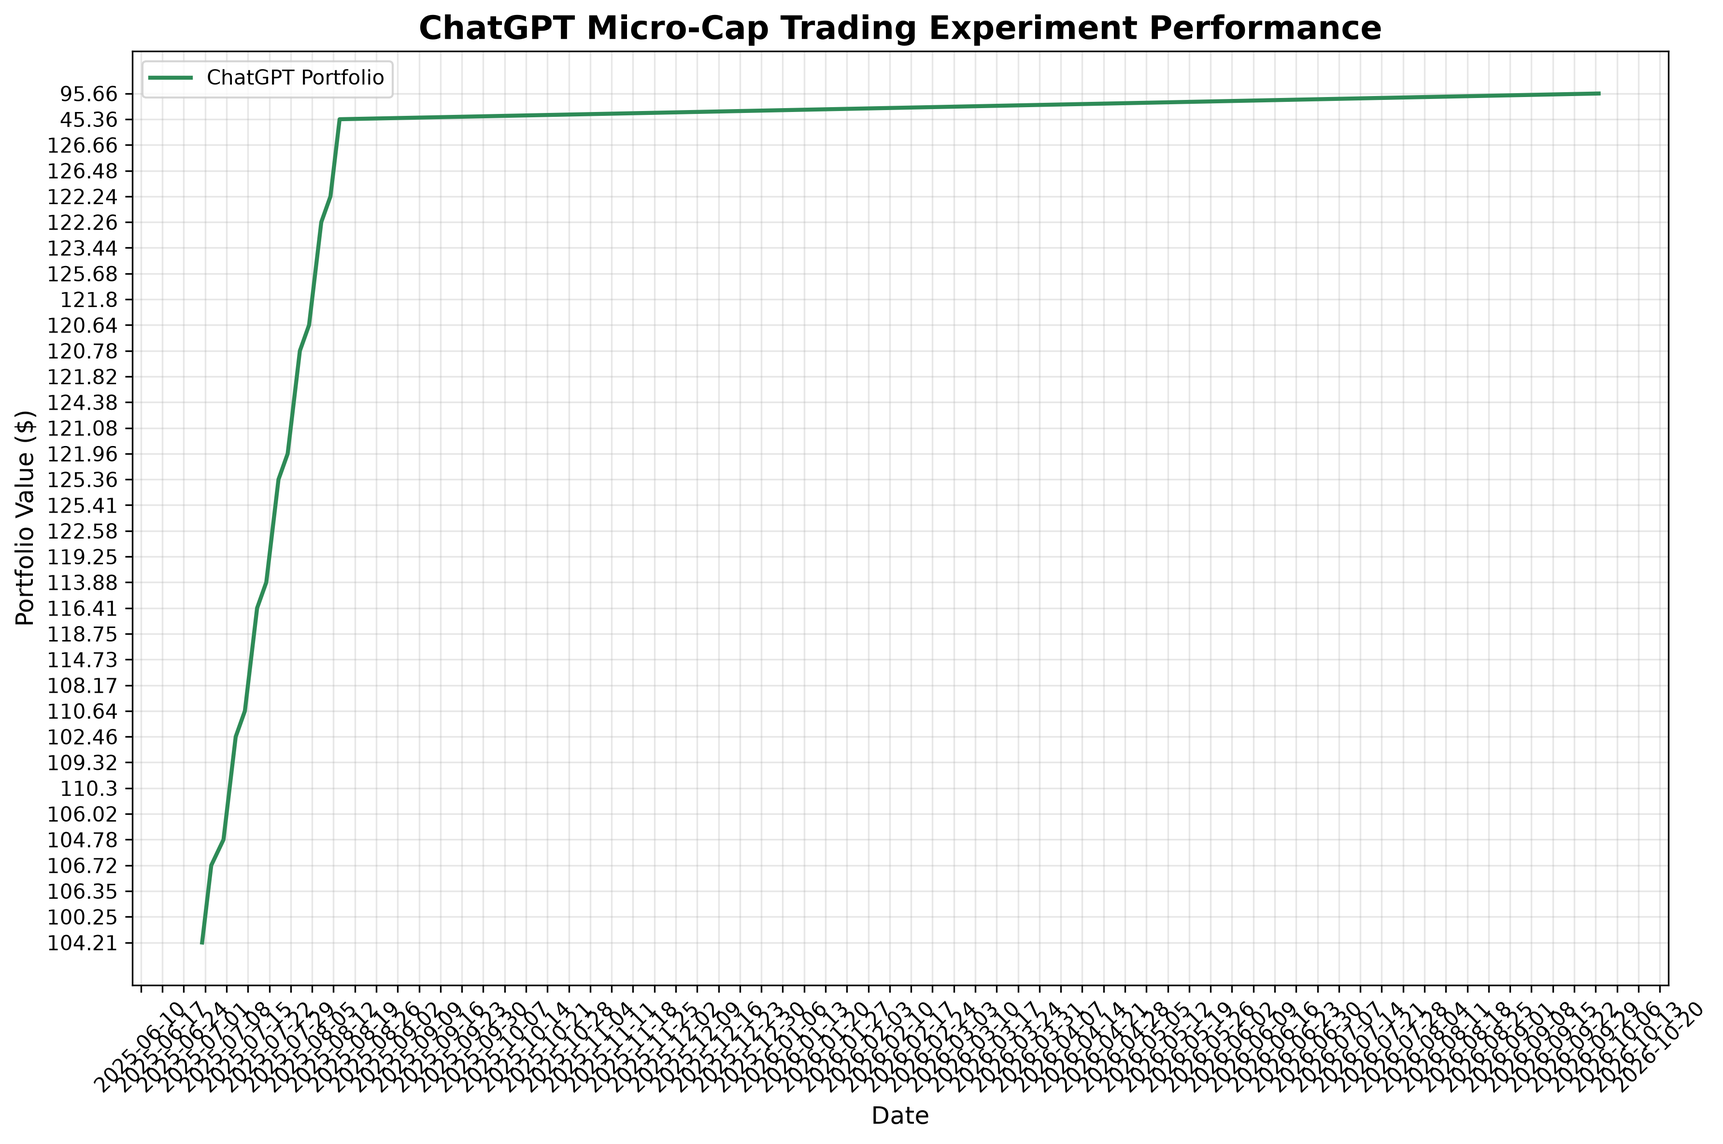
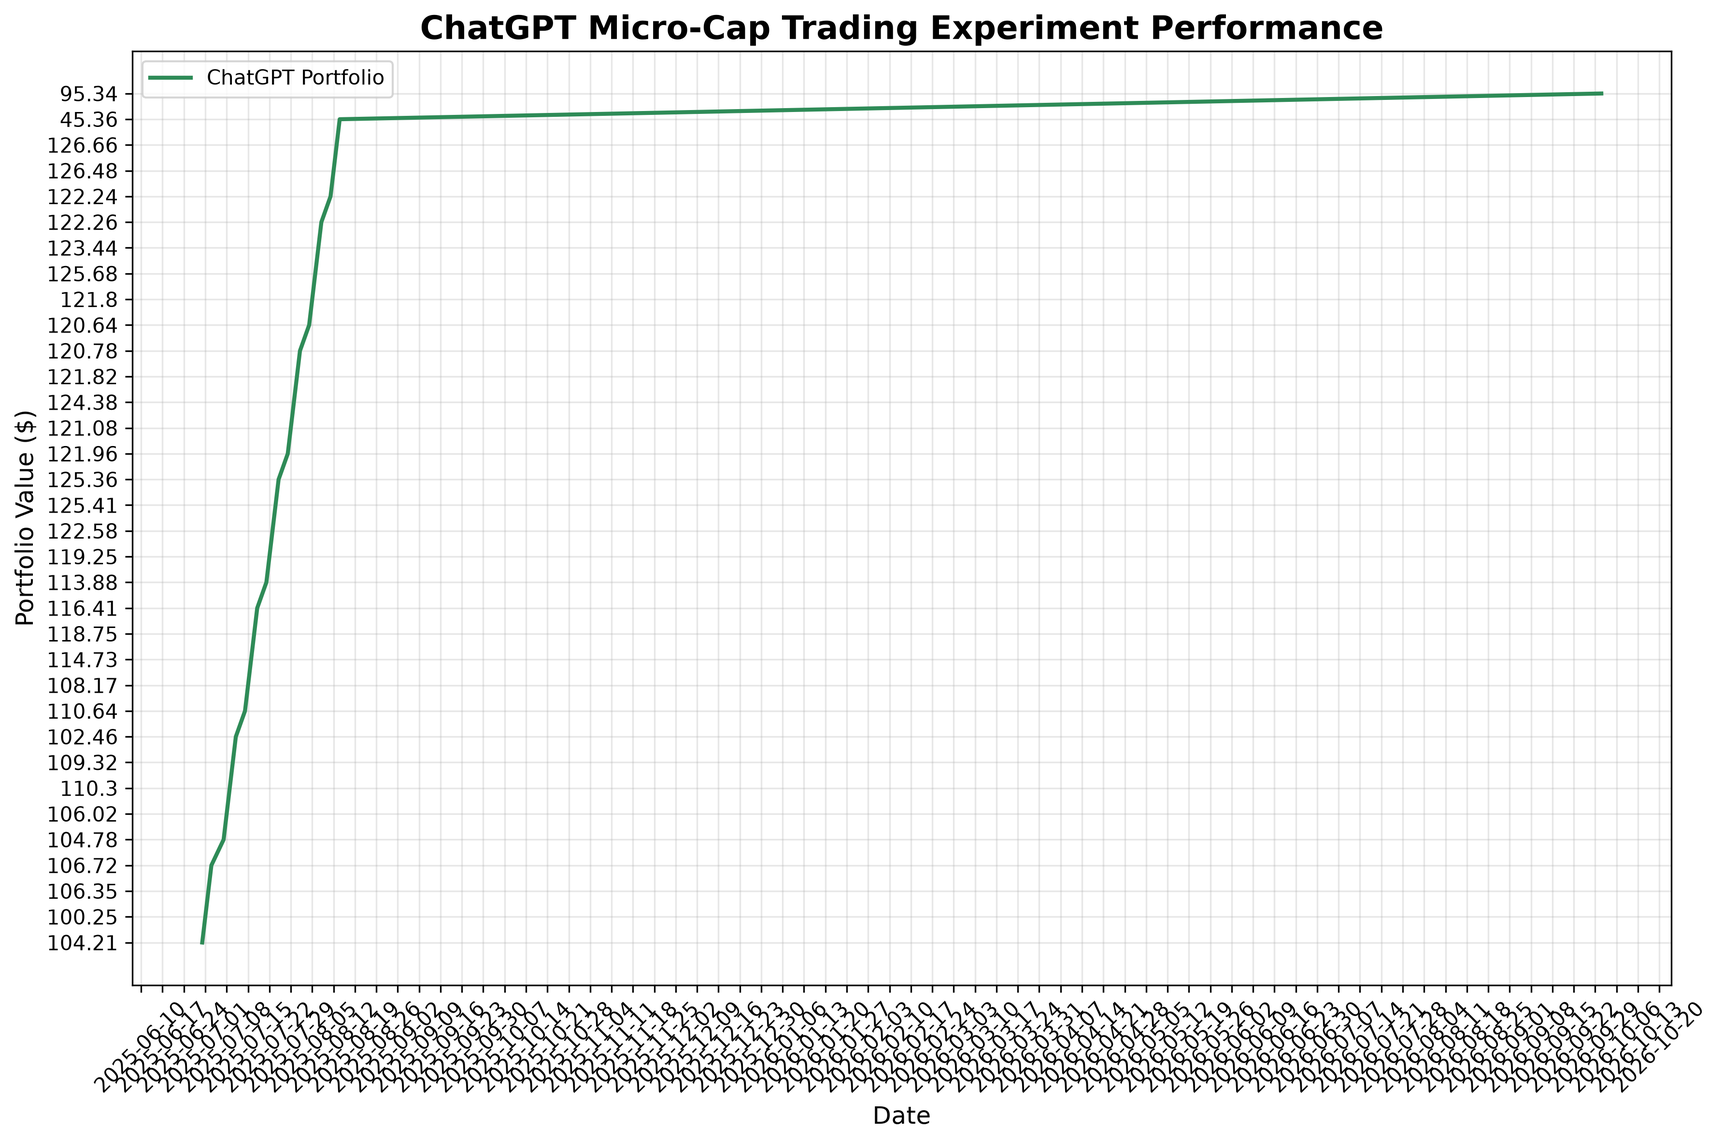
deploy: e15cad030d70fb3fbb51f9df6e22fa70c2f175c0

diff --git a/index.html b/index.html
@@ -105,7 +105,7 @@
                 <div class="stat-label">Total Trades</div>
             </div>
             <div class="stat-card">
-                <div class="stat-value" id="last-updated">2026-09-30</div>
+                <div class="stat-value" id="last-updated">2026-10-01</div>
                 <div class="stat-label">Last Updated</div>
             </div>
         </div>
@@ -160,8 +160,8 @@
     
     <script>
         // Portfolio data
-        const portfolioData = JSON.parse("[{&quot;Date&quot;: &quot;2025-08-11&quot;, &quot;Ticker&quot;: &quot;ABEO&quot;, &quot;Shares&quot;: 4.0, &quot;Buy Price&quot;: 5.77, &quot;Cost Basis&quot;: 23.08, &quot;Stop Loss&quot;: 4.9, &quot;Current Price&quot;: 6.28, &quot;Total Value&quot;: 25.12, &quot;PnL&quot;: 2.04, &quot;Action&quot;: &quot;HOLD&quot;, &quot;Cash Balance&quot;: NaN, &quot;Total Equity&quot;: NaN}, {&quot;Date&quot;: &quot;2025-08-11&quot;, &quot;Ticker&quot;: &quot;ACTU&quot;, &quot;Shares&quot;: 6.0, &quot;Buy Price&quot;: 5.75, &quot;Cost Basis&quot;: 34.5, &quot;Stop Loss&quot;: 4.89, &quot;Current Price&quot;: 8.01, &quot;Total Value&quot;: 48.06, &quot;PnL&quot;: 13.56, &quot;Action&quot;: &quot;HOLD&quot;, &quot;Cash Balance&quot;: NaN, &quot;Total Equity&quot;: NaN}, {&quot;Date&quot;: &quot;2025-08-11&quot;, &quot;Ticker&quot;: &quot;ESPR&quot;, &quot;Shares&quot;: 2.0, &quot;Buy Price&quot;: 1.91, &quot;Cost Basis&quot;: 3.82, &quot;Stop Loss&quot;: 1.6, &quot;Current Price&quot;: 1.85, &quot;Total Value&quot;: 3.7, &quot;PnL&quot;: -0.12, &quot;Action&quot;: &quot;HOLD&quot;, &quot;Cash Balance&quot;: NaN, &quot;Total Equity&quot;: NaN}, {&quot;Date&quot;: &quot;2025-08-11&quot;, &quot;Ticker&quot;: &quot;TOTAL&quot;, &quot;Shares&quot;: NaN, &quot;Buy Price&quot;: NaN, &quot;Cost Basis&quot;: NaN, &quot;Stop Loss&quot;: NaN, &quot;Current Price&quot;: NaN, &quot;Total Value&quot;: 76.88, &quot;PnL&quot;: 15.48, &quot;Action&quot;: NaN, &quot;Cash Balance&quot;: 45.36, &quot;Total Equity&quot;: &quot;122.24&quot;}, {&quot;Date&quot;: &quot;2025-08-12&quot;, &quot;Ticker&quot;: &quot;ABEO&quot;, &quot;Shares&quot;: 4.0, &quot;Buy Price&quot;: 5.77, &quot;Cost Basis&quot;: 23.08, &quot;Stop Loss&quot;: 4.9, &quot;Current Price&quot;: 6.38, &quot;Total Value&quot;: 25.52, &quot;PnL&quot;: 2.44, &quot;Action&quot;: &quot;HOLD&quot;, &quot;Cash Balance&quot;: NaN, &quot;Total Equity&quot;: NaN}, {&quot;Date&quot;: &quot;2025-08-12&quot;, &quot;Ticker&quot;: &quot;ACTU&quot;, &quot;Shares&quot;: 6.0, &quot;Buy Price&quot;: 5.75, &quot;Cost Basis&quot;: 34.5, &quot;Stop Loss&quot;: 4.89, &quot;Current Price&quot;: 8.67, &quot;Total Value&quot;: 52.02, &quot;PnL&quot;: 17.52, &quot;Action&quot;: &quot;HOLD&quot;, &quot;Cash Balance&quot;: NaN, &quot;Total Equity&quot;: NaN}, {&quot;Date&quot;: &quot;2025-08-12&quot;, &quot;Ticker&quot;: &quot;ESPR&quot;, &quot;Shares&quot;: 2.0, &quot;Buy Price&quot;: 1.91, &quot;Cost Basis&quot;: 3.82, &quot;Stop Loss&quot;: 1.6, &quot;Current Price&quot;: 1.79, &quot;Total Value&quot;: 3.58, &quot;PnL&quot;: -0.24, &quot;Action&quot;: &quot;HOLD&quot;, &quot;Cash Balance&quot;: NaN, &quot;Total Equity&quot;: NaN}, {&quot;Date&quot;: &quot;2025-08-12&quot;, &quot;Ticker&quot;: &quot;TOTAL&quot;, &quot;Shares&quot;: NaN, &quot;Buy Price&quot;: NaN, &quot;Cost Basis&quot;: NaN, &quot;Stop Loss&quot;: NaN, &quot;Current Price&quot;: NaN, &quot;Total Value&quot;: 81.12, &quot;PnL&quot;: 19.72, &quot;Action&quot;: NaN, &quot;Cash Balance&quot;: 45.36, &quot;Total Equity&quot;: &quot;126.48&quot;}, {&quot;Date&quot;: &quot;2025-08-13&quot;, &quot;Ticker&quot;: &quot;ABEO&quot;, &quot;Shares&quot;: 4.0, &quot;Buy Price&quot;: 5.77, &quot;Cost Basis&quot;: 23.08, &quot;Stop Loss&quot;: 4.9, &quot;Current Price&quot;: 6.56, &quot;Total Value&quot;: 26.24, &quot;PnL&quot;: 3.16, &quot;Action&quot;: &quot;HOLD&quot;, &quot;Cash Balance&quot;: NaN, &quot;Total Equity&quot;: NaN}, {&quot;Date&quot;: &quot;2025-08-13&quot;, &quot;Ticker&quot;: &quot;ACTU&quot;, &quot;Shares&quot;: 6.0, &quot;Buy Price&quot;: 5.75, &quot;Cost Basis&quot;: 34.5, &quot;Stop Loss&quot;: 4.89, &quot;Current Price&quot;: 8.53, &quot;Total Value&quot;: 51.18, &quot;PnL&quot;: 16.68, &quot;Action&quot;: &quot;HOLD&quot;, &quot;Cash Balance&quot;: NaN, &quot;Total Equity&quot;: NaN}, {&quot;Date&quot;: &quot;2025-08-13&quot;, &quot;Ticker&quot;: &quot;ESPR&quot;, &quot;Shares&quot;: 2.0, &quot;Buy Price&quot;: 1.91, &quot;Cost Basis&quot;: 3.82, &quot;Stop Loss&quot;: 1.6, &quot;Current Price&quot;: 1.94, &quot;Total Value&quot;: 3.88, &quot;PnL&quot;: 0.06, &quot;Action&quot;: &quot;HOLD&quot;, &quot;Cash Balance&quot;: NaN, &quot;Total Equity&quot;: NaN}, {&quot;Date&quot;: &quot;2025-08-13&quot;, &quot;Ticker&quot;: &quot;TOTAL&quot;, &quot;Shares&quot;: NaN, &quot;Buy Price&quot;: NaN, &quot;Cost Basis&quot;: NaN, &quot;Stop Loss&quot;: NaN, &quot;Current Price&quot;: NaN, &quot;Total Value&quot;: 81.3, &quot;PnL&quot;: 19.9, &quot;Action&quot;: NaN, &quot;Cash Balance&quot;: 45.36, &quot;Total Equity&quot;: &quot;126.66&quot;}, {&quot;Date&quot;: &quot;2025-08-14&quot;, &quot;Ticker&quot;: &quot;ABEO&quot;, &quot;Shares&quot;: 4.0, &quot;Buy Price&quot;: 5.77, &quot;Cost Basis&quot;: 23.08, &quot;Stop Loss&quot;: 4.9, &quot;Current Price&quot;: NaN, &quot;Total Value&quot;: NaN, &quot;PnL&quot;: NaN, &quot;Action&quot;: &quot;NO DATA&quot;, &quot;Cash Balance&quot;: NaN, &quot;Total Equity&quot;: NaN}, {&quot;Date&quot;: &quot;2025-08-14&quot;, &quot;Ticker&quot;: &quot;ACTU&quot;, &quot;Shares&quot;: 6.0, &quot;Buy Price&quot;: 5.75, &quot;Cost Basis&quot;: 34.5, &quot;Stop Loss&quot;: 4.89, &quot;Current Price&quot;: NaN, &quot;Total Value&quot;: NaN, &quot;PnL&quot;: NaN, &quot;Action&quot;: &quot;NO DATA&quot;, &quot;Cash Balance&quot;: NaN, &quot;Total Equity&quot;: NaN}, {&quot;Date&quot;: &quot;2025-08-14&quot;, &quot;Ticker&quot;: &quot;ESPR&quot;, &quot;Shares&quot;: 2.0, &quot;Buy Price&quot;: 1.91, &quot;Cost Basis&quot;: 3.82, &quot;Stop Loss&quot;: 1.6, &quot;Current Price&quot;: NaN, &quot;Total Value&quot;: NaN, &quot;PnL&quot;: NaN, &quot;Action&quot;: &quot;NO DATA&quot;, &quot;Cash Balance&quot;: NaN, &quot;Total Equity&quot;: NaN}, {&quot;Date&quot;: &quot;2025-08-14&quot;, &quot;Ticker&quot;: &quot;TOTAL&quot;, &quot;Shares&quot;: NaN, &quot;Buy Price&quot;: NaN, &quot;Cost Basis&quot;: NaN, &quot;Stop Loss&quot;: NaN, &quot;Current Price&quot;: NaN, &quot;Total Value&quot;: 0.0, &quot;PnL&quot;: 0.0, &quot;Action&quot;: NaN, &quot;Cash Balance&quot;: 45.36, &quot;Total Equity&quot;: &quot;45.36&quot;}, {&quot;Date&quot;: &quot;2026-09-30&quot;, &quot;Ticker&quot;: &quot;ABEO&quot;, &quot;Shares&quot;: 4.0, &quot;Buy Price&quot;: 5.77, &quot;Cost Basis&quot;: 23.08, &quot;Stop Loss&quot;: 4.9, &quot;Current Price&quot;: 5.24, &quot;Total Value&quot;: 20.96, &quot;PnL&quot;: -2.12, &quot;Action&quot;: &quot;HOLD&quot;, &quot;Cash Balance&quot;: NaN, &quot;Total Equity&quot;: NaN}, {&quot;Date&quot;: &quot;2026-09-30&quot;, &quot;Ticker&quot;: &quot;ACTU&quot;, &quot;Shares&quot;: 6.0, &quot;Buy Price&quot;: 5.75, &quot;Cost Basis&quot;: 34.5, &quot;Stop Loss&quot;: 4.89, &quot;Current Price&quot;: 4.89, &quot;Total Value&quot;: 29.34, &quot;PnL&quot;: -5.16, &quot;Action&quot;: &quot;SELL - Stop Loss Triggered&quot;, &quot;Cash Balance&quot;: NaN, &quot;Total Equity&quot;: NaN}, {&quot;Date&quot;: &quot;2026-09-30&quot;, &quot;Ticker&quot;: &quot;ESPR&quot;, &quot;Shares&quot;: 2.0, &quot;Buy Price&quot;: 1.91, &quot;Cost Basis&quot;: 3.82, &quot;Stop Loss&quot;: 1.6, &quot;Current Price&quot;: NaN, &quot;Total Value&quot;: NaN, &quot;PnL&quot;: NaN, &quot;Action&quot;: &quot;NO DATA&quot;, &quot;Cash Balance&quot;: NaN, &quot;Total Equity&quot;: NaN}, {&quot;Date&quot;: &quot;2026-09-30&quot;, &quot;Ticker&quot;: &quot;TOTAL&quot;, &quot;Shares&quot;: NaN, &quot;Buy Price&quot;: NaN, &quot;Cost Basis&quot;: NaN, &quot;Stop Loss&quot;: NaN, &quot;Current Price&quot;: NaN, &quot;Total Value&quot;: 20.96, &quot;PnL&quot;: -2.12, &quot;Action&quot;: NaN, &quot;Cash Balance&quot;: 74.7, &quot;Total Equity&quot;: &quot;95.66&quot;}]");
-        const tradeData = JSON.parse("[{&quot;Date&quot;: &quot;2025-07-08&quot;, &quot;Ticker&quot;: &quot;IINN&quot;, &quot;Shares Bought&quot;: 20.0, &quot;Buy Price&quot;: 1.5, &quot;Cost Basis&quot;: 30.0, &quot;PnL&quot;: 0.0, &quot;Reason&quot;: &quot;MANUAL BUY - New position&quot;, &quot;Shares Sold&quot;: NaN, &quot;Sell Price&quot;: NaN}, {&quot;Date&quot;: &quot;2025-07-21&quot;, &quot;Ticker&quot;: &quot;CADL&quot;, &quot;Shares Bought&quot;: NaN, &quot;Buy Price&quot;: NaN, &quot;Cost Basis&quot;: 25.2, &quot;PnL&quot;: 8.5, &quot;Reason&quot;: &quot;MANUAL SELL - GAIN CAPITAL FOR ACTU&quot;, &quot;Shares Sold&quot;: 5.0, &quot;Sell Price&quot;: 6.59}, {&quot;Date&quot;: &quot;2025-07-21&quot;, &quot;Ticker&quot;: &quot;ACTU&quot;, &quot;Shares Bought&quot;: 6.0, &quot;Buy Price&quot;: 5.75, &quot;Cost Basis&quot;: 34.5, &quot;PnL&quot;: 0.0, &quot;Reason&quot;: &quot;MANUAL BUY - New position&quot;, &quot;Shares Sold&quot;: NaN, &quot;Sell Price&quot;: NaN}, {&quot;Date&quot;: &quot;2025-07-28&quot;, &quot;Ticker&quot;: &quot;IINN&quot;, &quot;Shares Bought&quot;: NaN, &quot;Buy Price&quot;: NaN, &quot;Cost Basis&quot;: 9.0, &quot;PnL&quot;: -0.5400000000000009, &quot;Reason&quot;: &quot;MANUAL SELL - POSITION REDUCTION&quot;, &quot;Shares Sold&quot;: 6.0, &quot;Sell Price&quot;: 1.41}, {&quot;Date&quot;: &quot;2025-07-29&quot;, &quot;Ticker&quot;: &quot;AZTR&quot;, &quot;Shares Bought&quot;: NaN, &quot;Buy Price&quot;: NaN, &quot;Cost Basis&quot;: 13.75, &quot;PnL&quot;: -2.75, &quot;Reason&quot;: &quot;MANUAL SELL - DILUTION RISK&quot;, &quot;Shares Sold&quot;: 55.0, &quot;Sell Price&quot;: 0.2}, {&quot;Date&quot;: &quot;2025-08-01&quot;, &quot;Ticker&quot;: &quot;IINN&quot;, &quot;Shares Bought&quot;: 2.0, &quot;Buy Price&quot;: 1.74, &quot;Cost Basis&quot;: 3.48, &quot;PnL&quot;: 0.0, &quot;Reason&quot;: &quot;MANUAL BUY - New position&quot;, &quot;Shares Sold&quot;: NaN, &quot;Sell Price&quot;: NaN}, {&quot;Date&quot;: &quot;2025-08-01&quot;, &quot;Ticker&quot;: &quot;ABEO&quot;, &quot;Shares Bought&quot;: NaN, &quot;Buy Price&quot;: NaN, &quot;Cost Basis&quot;: 11.54, &quot;PnL&quot;: 1.200000000000001, &quot;Reason&quot;: &quot;MANUAL SELL - TRIM AFTER SUPPORT LOSS&quot;, &quot;Shares Sold&quot;: 2.0, &quot;Sell Price&quot;: 6.37}, {&quot;Date&quot;: &quot;2025-08-07&quot;, &quot;Ticker&quot;: &quot;ESPR&quot;, &quot;Shares Bought&quot;: 2.0, &quot;Buy Price&quot;: 1.91, &quot;Cost Basis&quot;: 3.82, &quot;PnL&quot;: 0.0, &quot;Reason&quot;: &quot;MANUAL BUY - New position&quot;, &quot;Shares Sold&quot;: NaN, &quot;Sell Price&quot;: NaN}, {&quot;Date&quot;: &quot;2025-08-08&quot;, &quot;Ticker&quot;: &quot;IINN&quot;, &quot;Shares Bought&quot;: NaN, &quot;Buy Price&quot;: NaN, &quot;Cost Basis&quot;: 1.5, &quot;PnL&quot;: -6.4, &quot;Reason&quot;: &quot;AUTOMATED SELL - STOPLOSS TRIGGERED&quot;, &quot;Shares Sold&quot;: 16.0, &quot;Sell Price&quot;: 1.1}, {&quot;Date&quot;: &quot;2026-09-30&quot;, &quot;Ticker&quot;: &quot;ACTU&quot;, &quot;Shares Bought&quot;: NaN, &quot;Buy Price&quot;: NaN, &quot;Cost Basis&quot;: 5.75, &quot;PnL&quot;: -5.16, &quot;Reason&quot;: &quot;AUTOMATED SELL - STOPLOSS TRIGGERED&quot;, &quot;Shares Sold&quot;: 6.0, &quot;Sell Price&quot;: 4.89}]");
+        const portfolioData = JSON.parse("[{&quot;Date&quot;: &quot;2025-08-11&quot;, &quot;Ticker&quot;: &quot;ABEO&quot;, &quot;Shares&quot;: 4.0, &quot;Buy Price&quot;: 5.77, &quot;Cost Basis&quot;: 23.08, &quot;Stop Loss&quot;: 4.9, &quot;Current Price&quot;: 6.28, &quot;Total Value&quot;: 25.12, &quot;PnL&quot;: 2.04, &quot;Action&quot;: &quot;HOLD&quot;, &quot;Cash Balance&quot;: NaN, &quot;Total Equity&quot;: NaN}, {&quot;Date&quot;: &quot;2025-08-11&quot;, &quot;Ticker&quot;: &quot;ACTU&quot;, &quot;Shares&quot;: 6.0, &quot;Buy Price&quot;: 5.75, &quot;Cost Basis&quot;: 34.5, &quot;Stop Loss&quot;: 4.89, &quot;Current Price&quot;: 8.01, &quot;Total Value&quot;: 48.06, &quot;PnL&quot;: 13.56, &quot;Action&quot;: &quot;HOLD&quot;, &quot;Cash Balance&quot;: NaN, &quot;Total Equity&quot;: NaN}, {&quot;Date&quot;: &quot;2025-08-11&quot;, &quot;Ticker&quot;: &quot;ESPR&quot;, &quot;Shares&quot;: 2.0, &quot;Buy Price&quot;: 1.91, &quot;Cost Basis&quot;: 3.82, &quot;Stop Loss&quot;: 1.6, &quot;Current Price&quot;: 1.85, &quot;Total Value&quot;: 3.7, &quot;PnL&quot;: -0.12, &quot;Action&quot;: &quot;HOLD&quot;, &quot;Cash Balance&quot;: NaN, &quot;Total Equity&quot;: NaN}, {&quot;Date&quot;: &quot;2025-08-11&quot;, &quot;Ticker&quot;: &quot;TOTAL&quot;, &quot;Shares&quot;: NaN, &quot;Buy Price&quot;: NaN, &quot;Cost Basis&quot;: NaN, &quot;Stop Loss&quot;: NaN, &quot;Current Price&quot;: NaN, &quot;Total Value&quot;: 76.88, &quot;PnL&quot;: 15.48, &quot;Action&quot;: NaN, &quot;Cash Balance&quot;: 45.36, &quot;Total Equity&quot;: &quot;122.24&quot;}, {&quot;Date&quot;: &quot;2025-08-12&quot;, &quot;Ticker&quot;: &quot;ABEO&quot;, &quot;Shares&quot;: 4.0, &quot;Buy Price&quot;: 5.77, &quot;Cost Basis&quot;: 23.08, &quot;Stop Loss&quot;: 4.9, &quot;Current Price&quot;: 6.38, &quot;Total Value&quot;: 25.52, &quot;PnL&quot;: 2.44, &quot;Action&quot;: &quot;HOLD&quot;, &quot;Cash Balance&quot;: NaN, &quot;Total Equity&quot;: NaN}, {&quot;Date&quot;: &quot;2025-08-12&quot;, &quot;Ticker&quot;: &quot;ACTU&quot;, &quot;Shares&quot;: 6.0, &quot;Buy Price&quot;: 5.75, &quot;Cost Basis&quot;: 34.5, &quot;Stop Loss&quot;: 4.89, &quot;Current Price&quot;: 8.67, &quot;Total Value&quot;: 52.02, &quot;PnL&quot;: 17.52, &quot;Action&quot;: &quot;HOLD&quot;, &quot;Cash Balance&quot;: NaN, &quot;Total Equity&quot;: NaN}, {&quot;Date&quot;: &quot;2025-08-12&quot;, &quot;Ticker&quot;: &quot;ESPR&quot;, &quot;Shares&quot;: 2.0, &quot;Buy Price&quot;: 1.91, &quot;Cost Basis&quot;: 3.82, &quot;Stop Loss&quot;: 1.6, &quot;Current Price&quot;: 1.79, &quot;Total Value&quot;: 3.58, &quot;PnL&quot;: -0.24, &quot;Action&quot;: &quot;HOLD&quot;, &quot;Cash Balance&quot;: NaN, &quot;Total Equity&quot;: NaN}, {&quot;Date&quot;: &quot;2025-08-12&quot;, &quot;Ticker&quot;: &quot;TOTAL&quot;, &quot;Shares&quot;: NaN, &quot;Buy Price&quot;: NaN, &quot;Cost Basis&quot;: NaN, &quot;Stop Loss&quot;: NaN, &quot;Current Price&quot;: NaN, &quot;Total Value&quot;: 81.12, &quot;PnL&quot;: 19.72, &quot;Action&quot;: NaN, &quot;Cash Balance&quot;: 45.36, &quot;Total Equity&quot;: &quot;126.48&quot;}, {&quot;Date&quot;: &quot;2025-08-13&quot;, &quot;Ticker&quot;: &quot;ABEO&quot;, &quot;Shares&quot;: 4.0, &quot;Buy Price&quot;: 5.77, &quot;Cost Basis&quot;: 23.08, &quot;Stop Loss&quot;: 4.9, &quot;Current Price&quot;: 6.56, &quot;Total Value&quot;: 26.24, &quot;PnL&quot;: 3.16, &quot;Action&quot;: &quot;HOLD&quot;, &quot;Cash Balance&quot;: NaN, &quot;Total Equity&quot;: NaN}, {&quot;Date&quot;: &quot;2025-08-13&quot;, &quot;Ticker&quot;: &quot;ACTU&quot;, &quot;Shares&quot;: 6.0, &quot;Buy Price&quot;: 5.75, &quot;Cost Basis&quot;: 34.5, &quot;Stop Loss&quot;: 4.89, &quot;Current Price&quot;: 8.53, &quot;Total Value&quot;: 51.18, &quot;PnL&quot;: 16.68, &quot;Action&quot;: &quot;HOLD&quot;, &quot;Cash Balance&quot;: NaN, &quot;Total Equity&quot;: NaN}, {&quot;Date&quot;: &quot;2025-08-13&quot;, &quot;Ticker&quot;: &quot;ESPR&quot;, &quot;Shares&quot;: 2.0, &quot;Buy Price&quot;: 1.91, &quot;Cost Basis&quot;: 3.82, &quot;Stop Loss&quot;: 1.6, &quot;Current Price&quot;: 1.94, &quot;Total Value&quot;: 3.88, &quot;PnL&quot;: 0.06, &quot;Action&quot;: &quot;HOLD&quot;, &quot;Cash Balance&quot;: NaN, &quot;Total Equity&quot;: NaN}, {&quot;Date&quot;: &quot;2025-08-13&quot;, &quot;Ticker&quot;: &quot;TOTAL&quot;, &quot;Shares&quot;: NaN, &quot;Buy Price&quot;: NaN, &quot;Cost Basis&quot;: NaN, &quot;Stop Loss&quot;: NaN, &quot;Current Price&quot;: NaN, &quot;Total Value&quot;: 81.3, &quot;PnL&quot;: 19.9, &quot;Action&quot;: NaN, &quot;Cash Balance&quot;: 45.36, &quot;Total Equity&quot;: &quot;126.66&quot;}, {&quot;Date&quot;: &quot;2025-08-14&quot;, &quot;Ticker&quot;: &quot;ABEO&quot;, &quot;Shares&quot;: 4.0, &quot;Buy Price&quot;: 5.77, &quot;Cost Basis&quot;: 23.08, &quot;Stop Loss&quot;: 4.9, &quot;Current Price&quot;: NaN, &quot;Total Value&quot;: NaN, &quot;PnL&quot;: NaN, &quot;Action&quot;: &quot;NO DATA&quot;, &quot;Cash Balance&quot;: NaN, &quot;Total Equity&quot;: NaN}, {&quot;Date&quot;: &quot;2025-08-14&quot;, &quot;Ticker&quot;: &quot;ACTU&quot;, &quot;Shares&quot;: 6.0, &quot;Buy Price&quot;: 5.75, &quot;Cost Basis&quot;: 34.5, &quot;Stop Loss&quot;: 4.89, &quot;Current Price&quot;: NaN, &quot;Total Value&quot;: NaN, &quot;PnL&quot;: NaN, &quot;Action&quot;: &quot;NO DATA&quot;, &quot;Cash Balance&quot;: NaN, &quot;Total Equity&quot;: NaN}, {&quot;Date&quot;: &quot;2025-08-14&quot;, &quot;Ticker&quot;: &quot;ESPR&quot;, &quot;Shares&quot;: 2.0, &quot;Buy Price&quot;: 1.91, &quot;Cost Basis&quot;: 3.82, &quot;Stop Loss&quot;: 1.6, &quot;Current Price&quot;: NaN, &quot;Total Value&quot;: NaN, &quot;PnL&quot;: NaN, &quot;Action&quot;: &quot;NO DATA&quot;, &quot;Cash Balance&quot;: NaN, &quot;Total Equity&quot;: NaN}, {&quot;Date&quot;: &quot;2025-08-14&quot;, &quot;Ticker&quot;: &quot;TOTAL&quot;, &quot;Shares&quot;: NaN, &quot;Buy Price&quot;: NaN, &quot;Cost Basis&quot;: NaN, &quot;Stop Loss&quot;: NaN, &quot;Current Price&quot;: NaN, &quot;Total Value&quot;: 0.0, &quot;PnL&quot;: 0.0, &quot;Action&quot;: NaN, &quot;Cash Balance&quot;: 45.36, &quot;Total Equity&quot;: &quot;45.36&quot;}, {&quot;Date&quot;: &quot;2026-10-01&quot;, &quot;Ticker&quot;: &quot;ABEO&quot;, &quot;Shares&quot;: 4.0, &quot;Buy Price&quot;: 5.77, &quot;Cost Basis&quot;: 23.08, &quot;Stop Loss&quot;: 4.9, &quot;Current Price&quot;: 5.16, &quot;Total Value&quot;: 20.64, &quot;PnL&quot;: -2.44, &quot;Action&quot;: &quot;HOLD&quot;, &quot;Cash Balance&quot;: NaN, &quot;Total Equity&quot;: NaN}, {&quot;Date&quot;: &quot;2026-10-01&quot;, &quot;Ticker&quot;: &quot;ACTU&quot;, &quot;Shares&quot;: 6.0, &quot;Buy Price&quot;: 5.75, &quot;Cost Basis&quot;: 34.5, &quot;Stop Loss&quot;: 4.89, &quot;Current Price&quot;: 4.89, &quot;Total Value&quot;: 29.34, &quot;PnL&quot;: -5.16, &quot;Action&quot;: &quot;SELL - Stop Loss Triggered&quot;, &quot;Cash Balance&quot;: NaN, &quot;Total Equity&quot;: NaN}, {&quot;Date&quot;: &quot;2026-10-01&quot;, &quot;Ticker&quot;: &quot;ESPR&quot;, &quot;Shares&quot;: 2.0, &quot;Buy Price&quot;: 1.91, &quot;Cost Basis&quot;: 3.82, &quot;Stop Loss&quot;: 1.6, &quot;Current Price&quot;: NaN, &quot;Total Value&quot;: NaN, &quot;PnL&quot;: NaN, &quot;Action&quot;: &quot;NO DATA&quot;, &quot;Cash Balance&quot;: NaN, &quot;Total Equity&quot;: NaN}, {&quot;Date&quot;: &quot;2026-10-01&quot;, &quot;Ticker&quot;: &quot;TOTAL&quot;, &quot;Shares&quot;: NaN, &quot;Buy Price&quot;: NaN, &quot;Cost Basis&quot;: NaN, &quot;Stop Loss&quot;: NaN, &quot;Current Price&quot;: NaN, &quot;Total Value&quot;: 20.64, &quot;PnL&quot;: -2.44, &quot;Action&quot;: NaN, &quot;Cash Balance&quot;: 74.7, &quot;Total Equity&quot;: &quot;95.34&quot;}]");
+        const tradeData = JSON.parse("[{&quot;Date&quot;: &quot;2025-07-08&quot;, &quot;Ticker&quot;: &quot;IINN&quot;, &quot;Shares Bought&quot;: 20.0, &quot;Buy Price&quot;: 1.5, &quot;Cost Basis&quot;: 30.0, &quot;PnL&quot;: 0.0, &quot;Reason&quot;: &quot;MANUAL BUY - New position&quot;, &quot;Shares Sold&quot;: NaN, &quot;Sell Price&quot;: NaN}, {&quot;Date&quot;: &quot;2025-07-21&quot;, &quot;Ticker&quot;: &quot;CADL&quot;, &quot;Shares Bought&quot;: NaN, &quot;Buy Price&quot;: NaN, &quot;Cost Basis&quot;: 25.2, &quot;PnL&quot;: 8.5, &quot;Reason&quot;: &quot;MANUAL SELL - GAIN CAPITAL FOR ACTU&quot;, &quot;Shares Sold&quot;: 5.0, &quot;Sell Price&quot;: 6.59}, {&quot;Date&quot;: &quot;2025-07-21&quot;, &quot;Ticker&quot;: &quot;ACTU&quot;, &quot;Shares Bought&quot;: 6.0, &quot;Buy Price&quot;: 5.75, &quot;Cost Basis&quot;: 34.5, &quot;PnL&quot;: 0.0, &quot;Reason&quot;: &quot;MANUAL BUY - New position&quot;, &quot;Shares Sold&quot;: NaN, &quot;Sell Price&quot;: NaN}, {&quot;Date&quot;: &quot;2025-07-28&quot;, &quot;Ticker&quot;: &quot;IINN&quot;, &quot;Shares Bought&quot;: NaN, &quot;Buy Price&quot;: NaN, &quot;Cost Basis&quot;: 9.0, &quot;PnL&quot;: -0.5400000000000009, &quot;Reason&quot;: &quot;MANUAL SELL - POSITION REDUCTION&quot;, &quot;Shares Sold&quot;: 6.0, &quot;Sell Price&quot;: 1.41}, {&quot;Date&quot;: &quot;2025-07-29&quot;, &quot;Ticker&quot;: &quot;AZTR&quot;, &quot;Shares Bought&quot;: NaN, &quot;Buy Price&quot;: NaN, &quot;Cost Basis&quot;: 13.75, &quot;PnL&quot;: -2.75, &quot;Reason&quot;: &quot;MANUAL SELL - DILUTION RISK&quot;, &quot;Shares Sold&quot;: 55.0, &quot;Sell Price&quot;: 0.2}, {&quot;Date&quot;: &quot;2025-08-01&quot;, &quot;Ticker&quot;: &quot;IINN&quot;, &quot;Shares Bought&quot;: 2.0, &quot;Buy Price&quot;: 1.74, &quot;Cost Basis&quot;: 3.48, &quot;PnL&quot;: 0.0, &quot;Reason&quot;: &quot;MANUAL BUY - New position&quot;, &quot;Shares Sold&quot;: NaN, &quot;Sell Price&quot;: NaN}, {&quot;Date&quot;: &quot;2025-08-01&quot;, &quot;Ticker&quot;: &quot;ABEO&quot;, &quot;Shares Bought&quot;: NaN, &quot;Buy Price&quot;: NaN, &quot;Cost Basis&quot;: 11.54, &quot;PnL&quot;: 1.200000000000001, &quot;Reason&quot;: &quot;MANUAL SELL - TRIM AFTER SUPPORT LOSS&quot;, &quot;Shares Sold&quot;: 2.0, &quot;Sell Price&quot;: 6.37}, {&quot;Date&quot;: &quot;2025-08-07&quot;, &quot;Ticker&quot;: &quot;ESPR&quot;, &quot;Shares Bought&quot;: 2.0, &quot;Buy Price&quot;: 1.91, &quot;Cost Basis&quot;: 3.82, &quot;PnL&quot;: 0.0, &quot;Reason&quot;: &quot;MANUAL BUY - New position&quot;, &quot;Shares Sold&quot;: NaN, &quot;Sell Price&quot;: NaN}, {&quot;Date&quot;: &quot;2025-08-08&quot;, &quot;Ticker&quot;: &quot;IINN&quot;, &quot;Shares Bought&quot;: NaN, &quot;Buy Price&quot;: NaN, &quot;Cost Basis&quot;: 1.5, &quot;PnL&quot;: -6.4, &quot;Reason&quot;: &quot;AUTOMATED SELL - STOPLOSS TRIGGERED&quot;, &quot;Shares Sold&quot;: 16.0, &quot;Sell Price&quot;: 1.1}, {&quot;Date&quot;: &quot;2026-10-01&quot;, &quot;Ticker&quot;: &quot;ACTU&quot;, &quot;Shares Bought&quot;: NaN, &quot;Buy Price&quot;: NaN, &quot;Cost Basis&quot;: 5.75, &quot;PnL&quot;: -5.16, &quot;Reason&quot;: &quot;AUTOMATED SELL - STOPLOSS TRIGGERED&quot;, &quot;Shares Sold&quot;: 6.0, &quot;Sell Price&quot;: 4.89}]");
         
         // Update total equity
         if (portfolioData.length > 0) {
